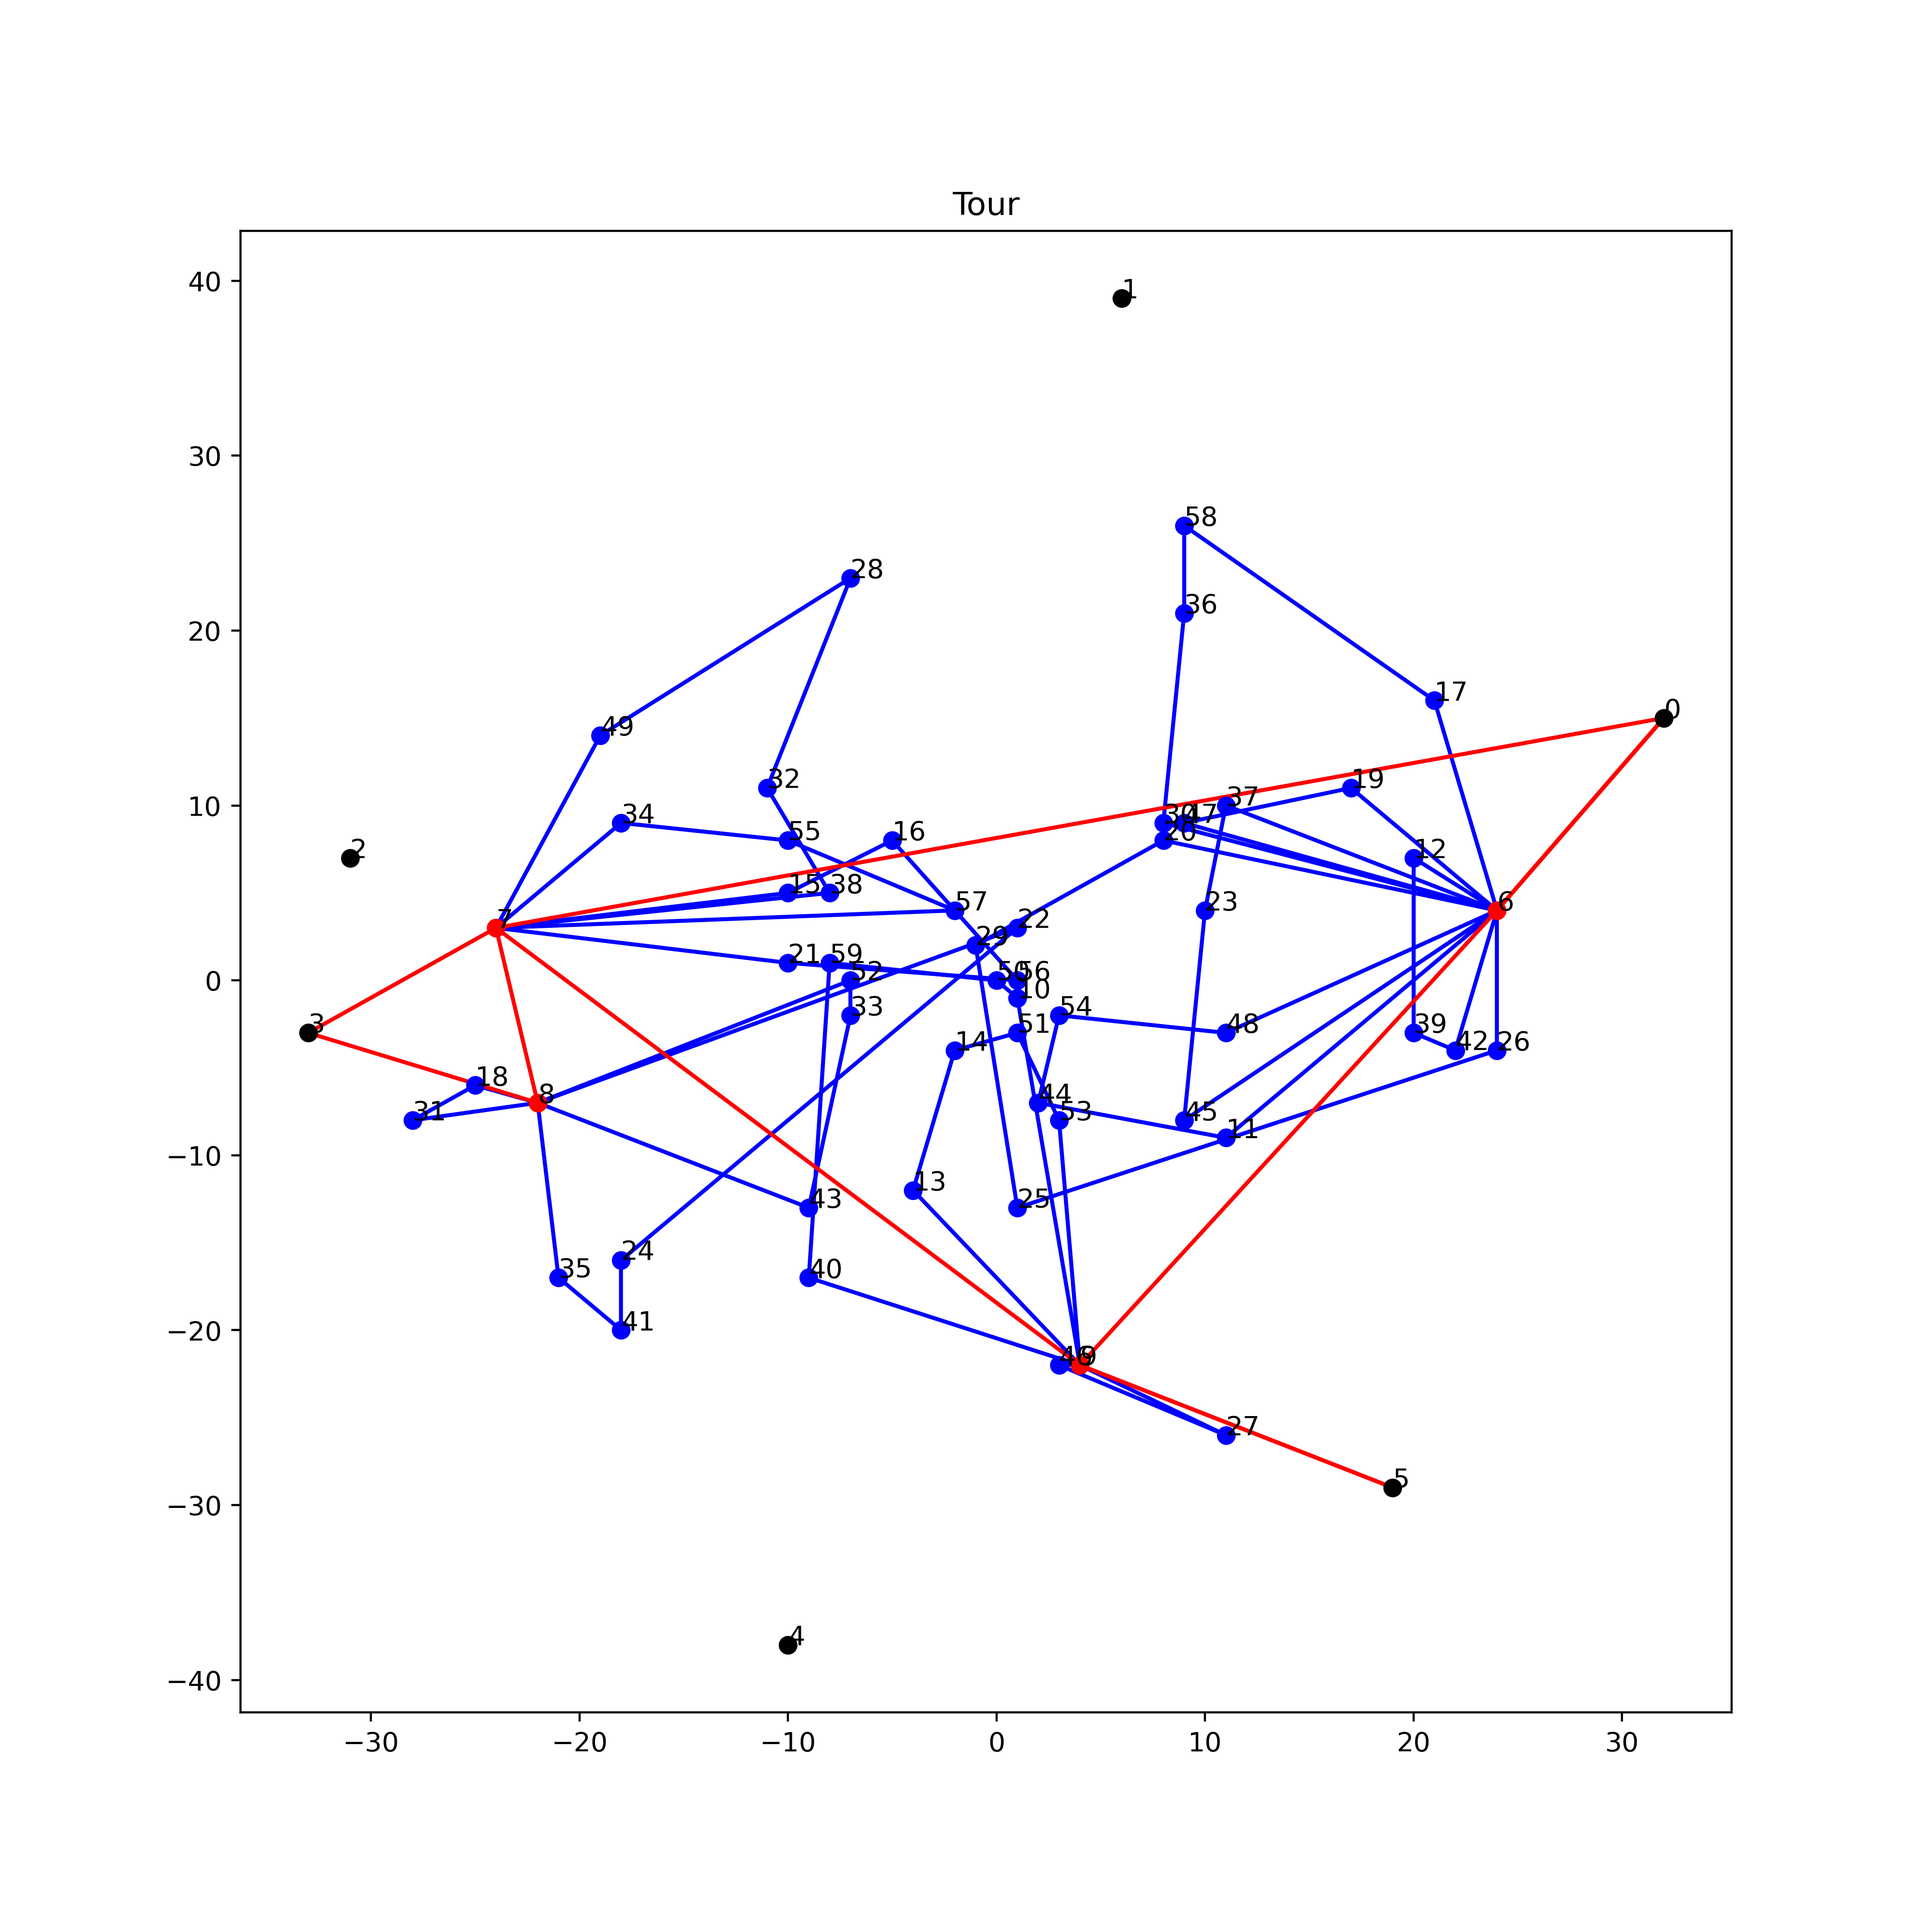
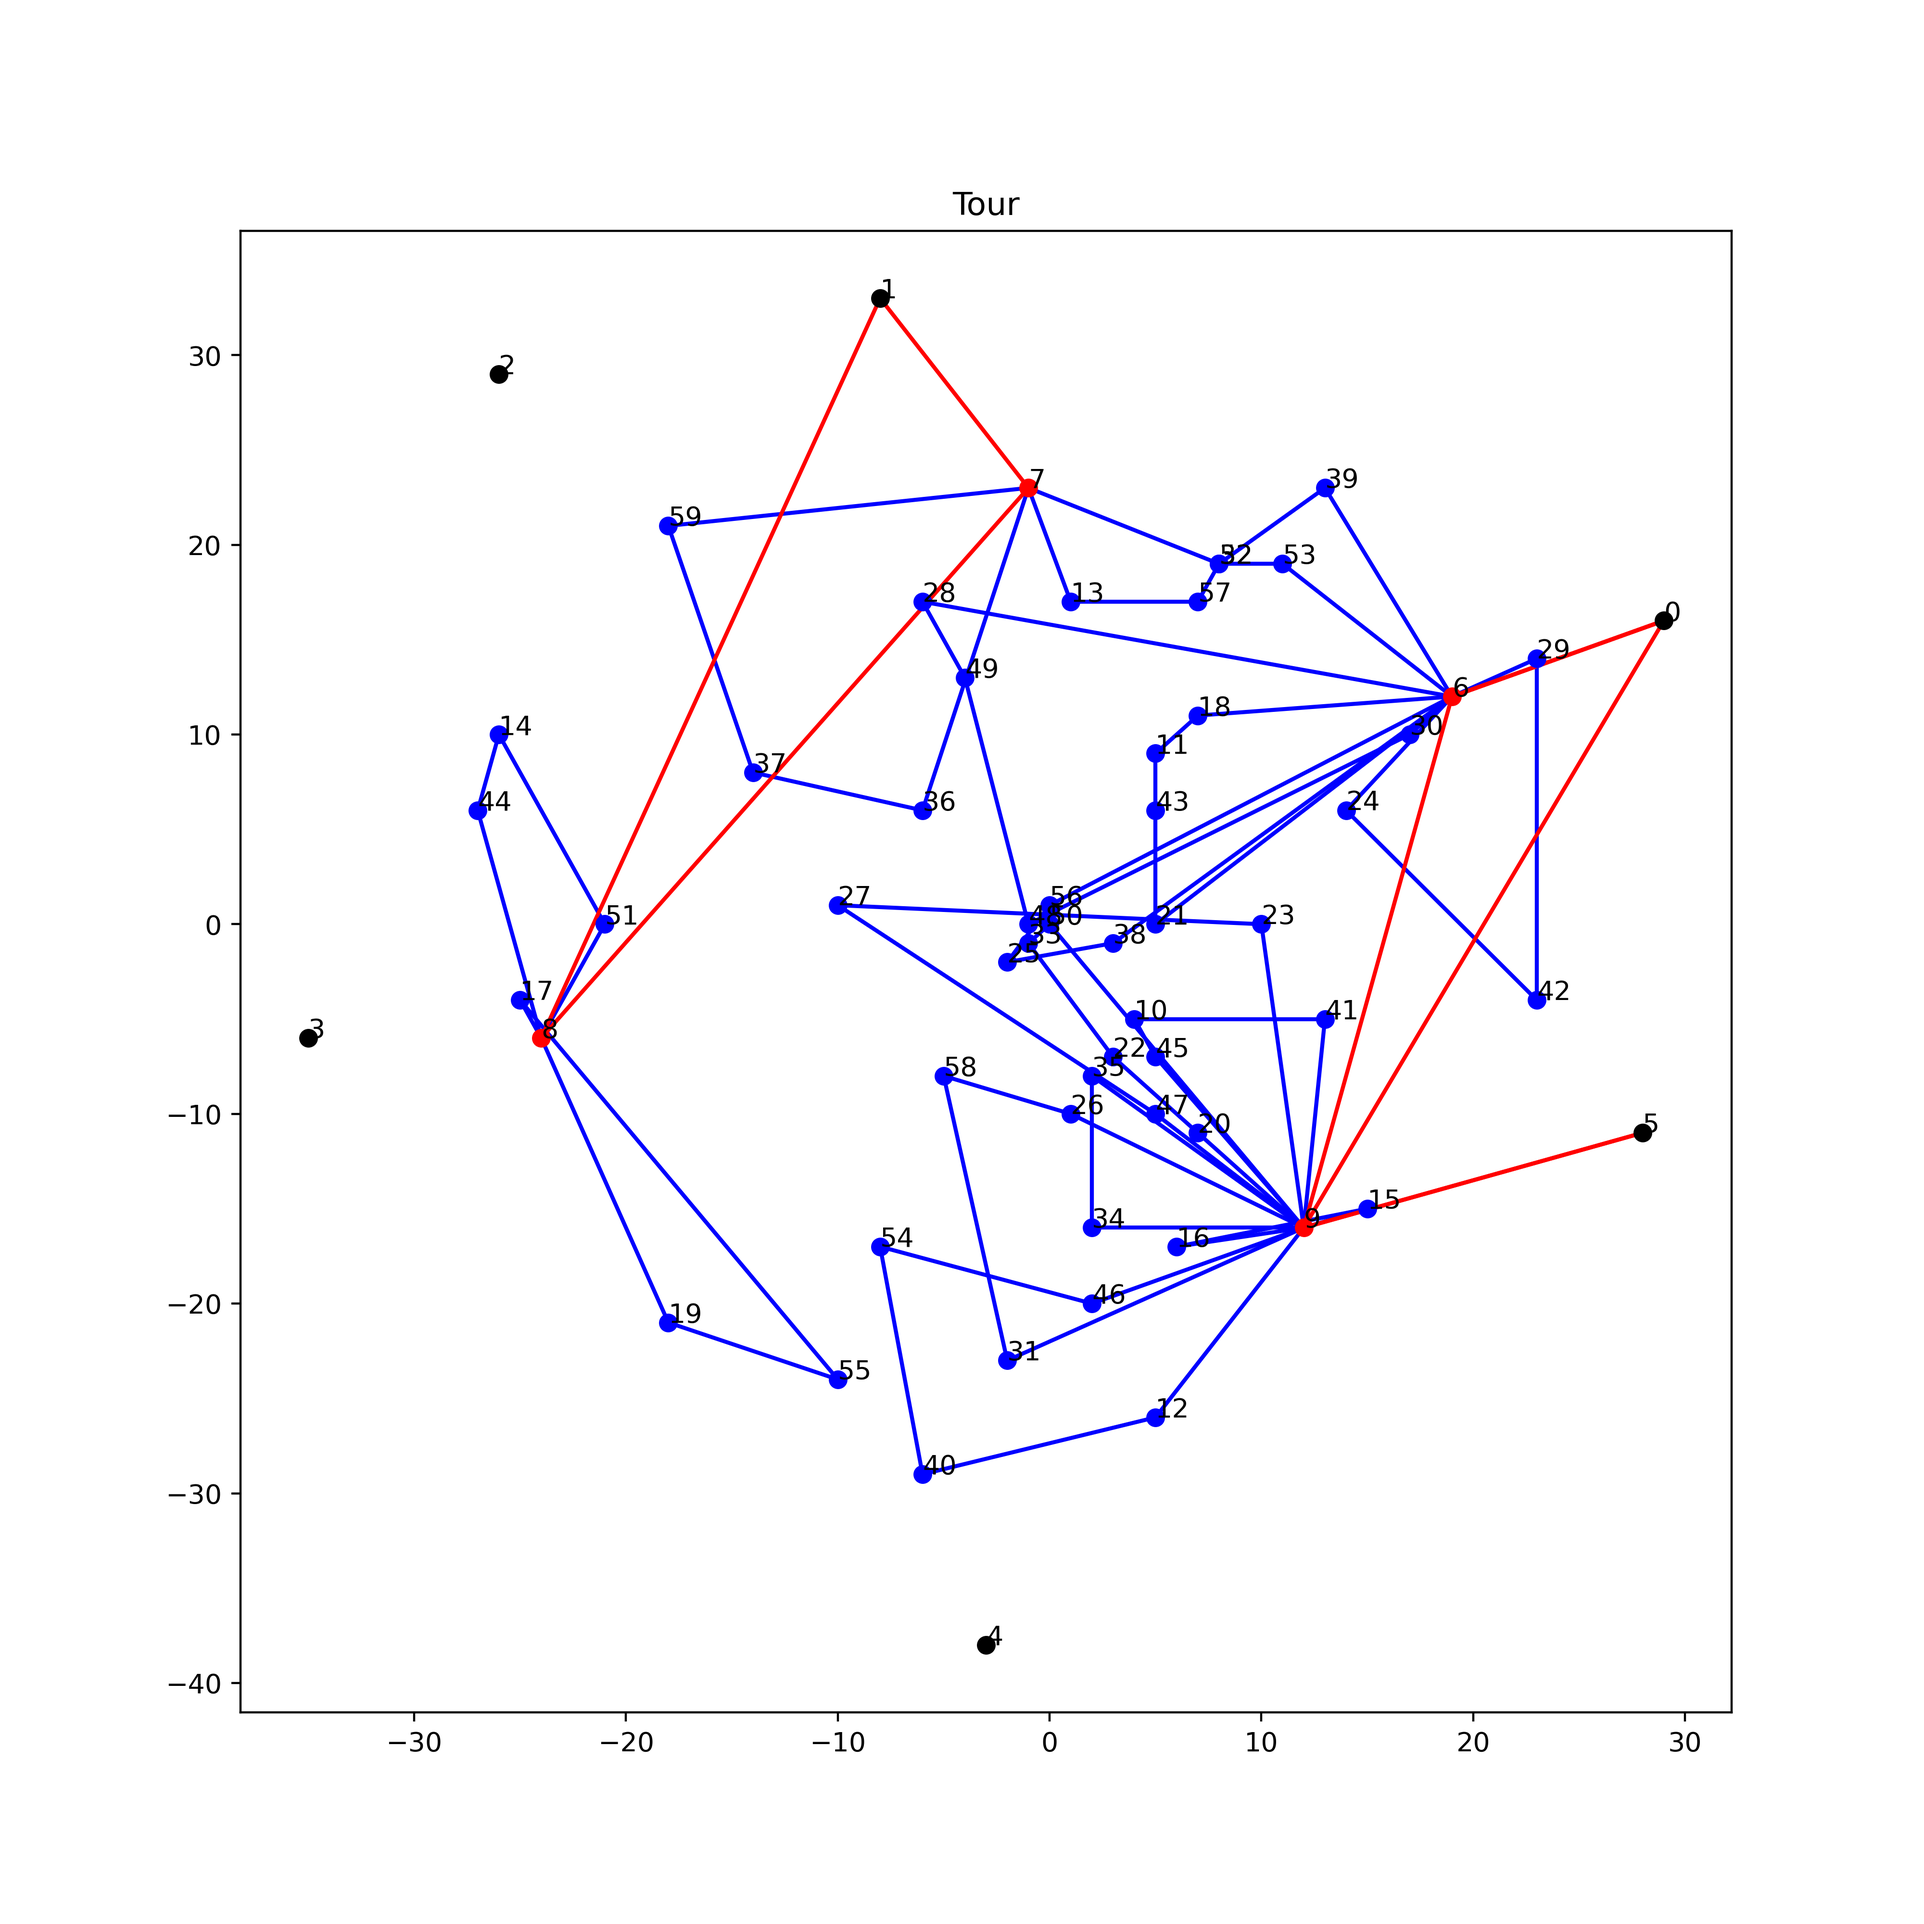
update

diff --git a/Setup.py b/Setup.py
@@ -2,5 +2,5 @@
 This file contains the setup for analysis
 """
 instanceList = [
-                "Ca5-6,4,50.txt",
+                "Ca1-6,4,50.txt",
 ]
